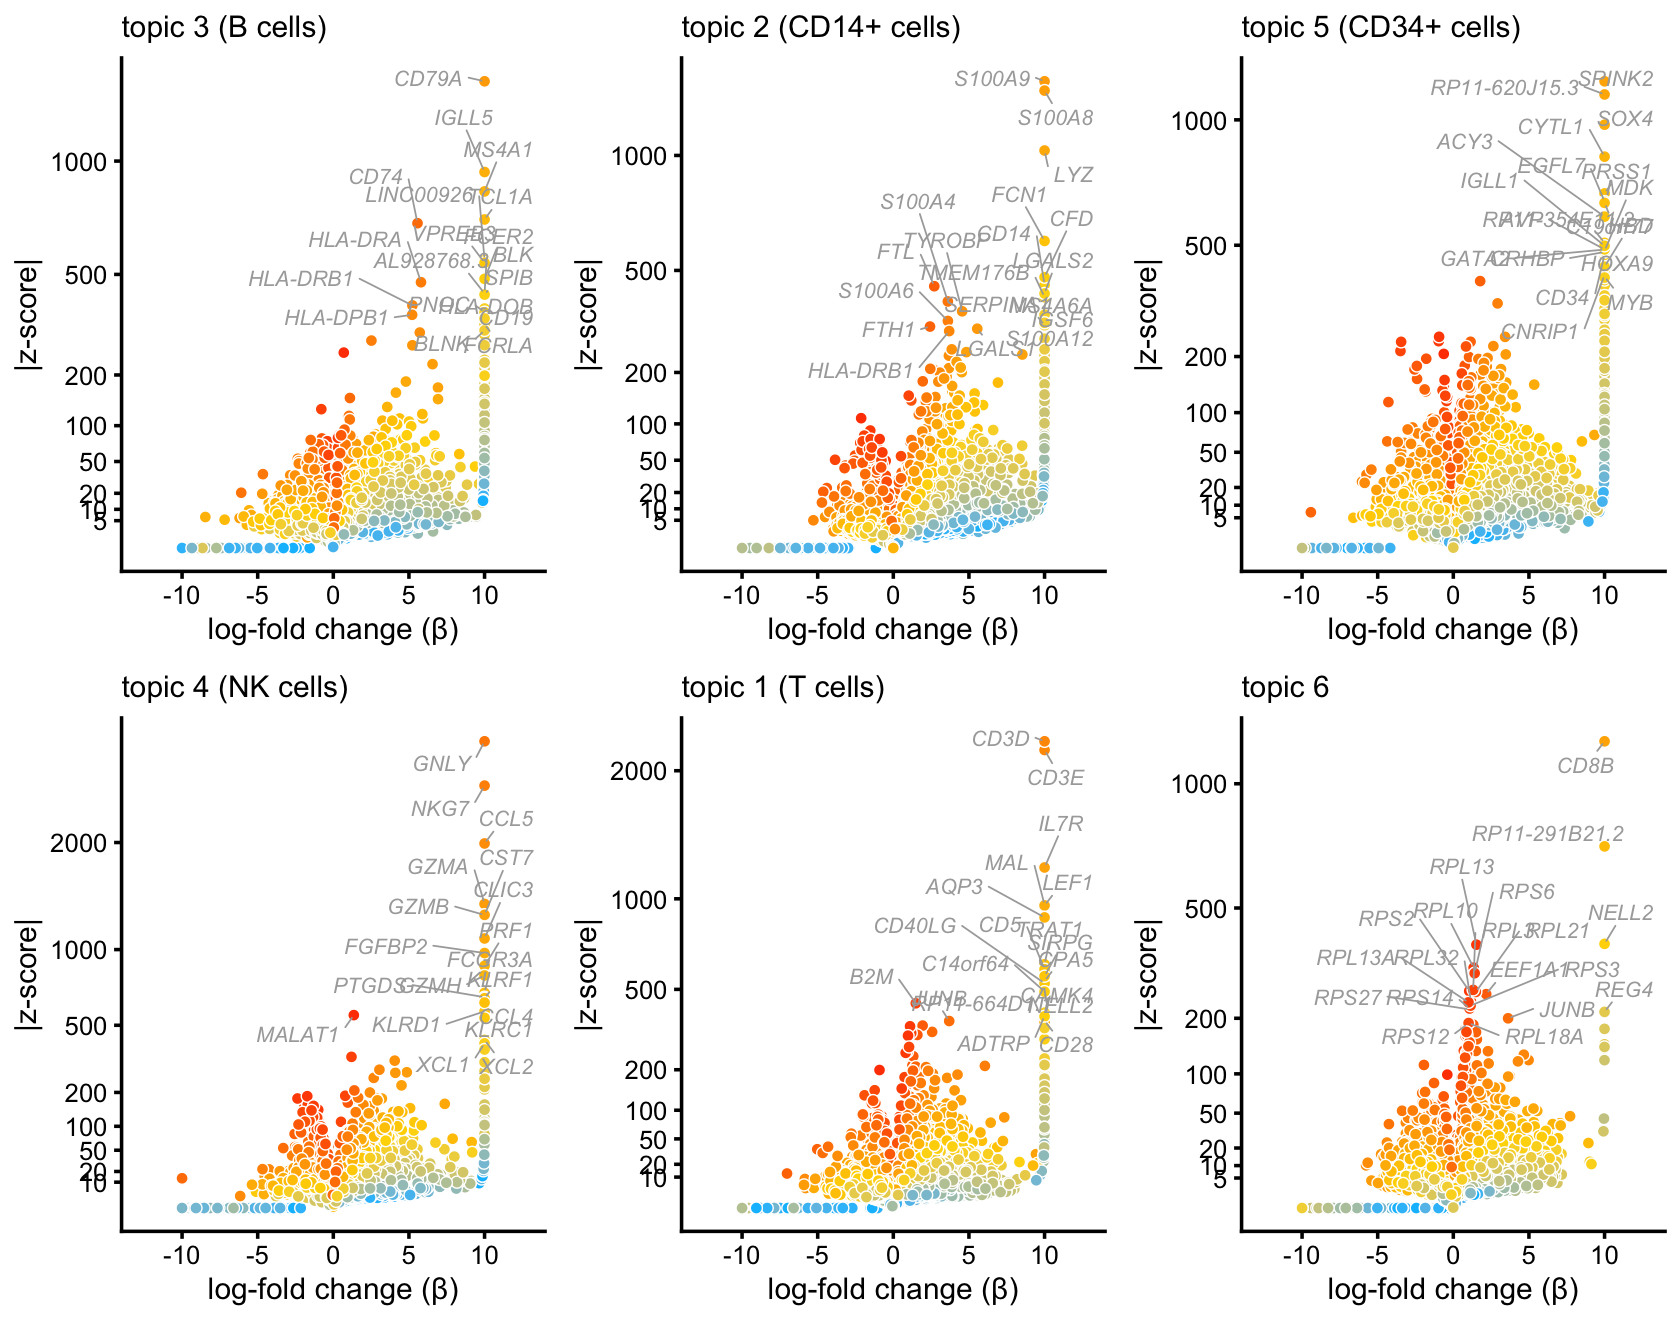
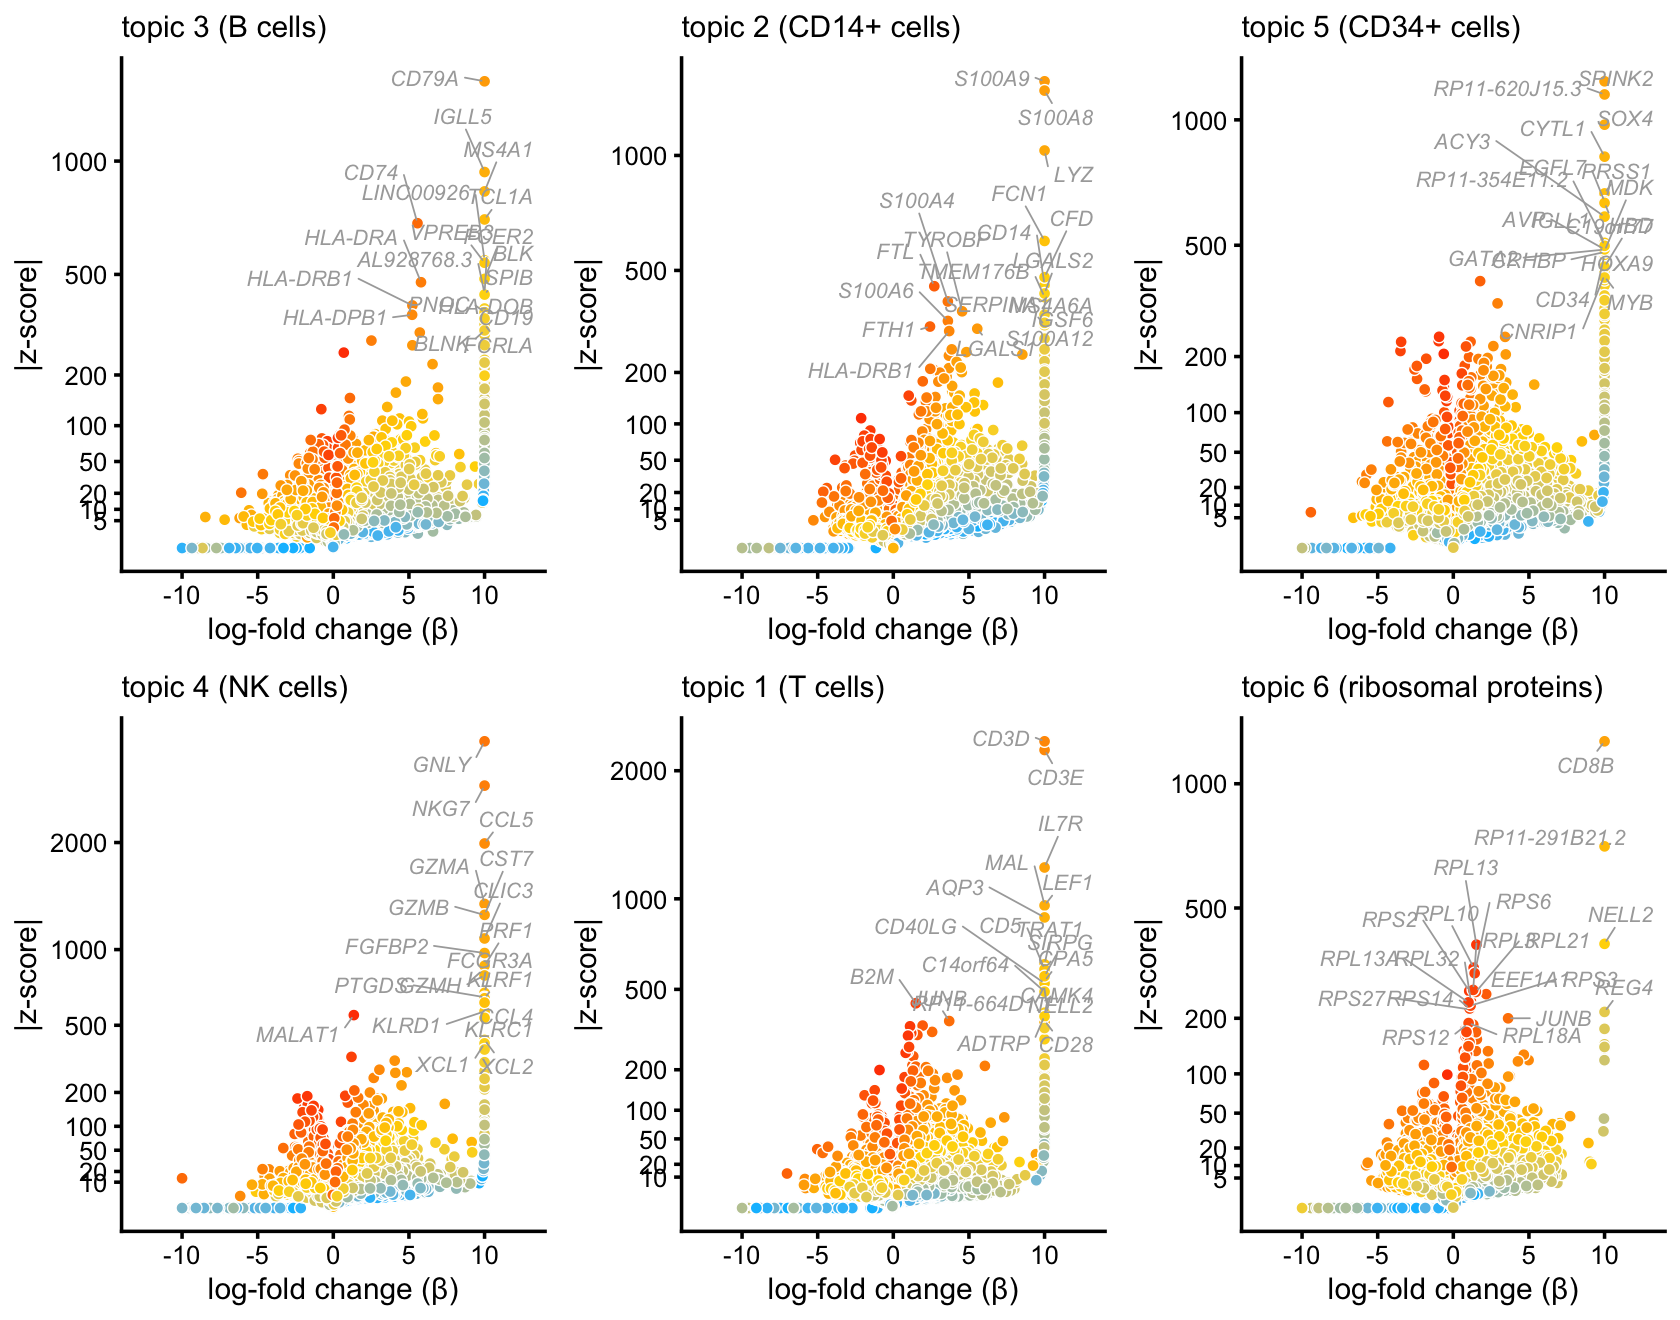
Re-built plots_purified_pbmc with interactive volcano plots.

diff --git a/docs/plots_purified_pbmc.html b/docs/plots_purified_pbmc.html
@@ -305,7 +305,7 @@ $(document).ready(function () {
 
 <p>
 <button type="button" class="btn btn-default btn-workflowr btn-workflowr-report" data-toggle="collapse" data-target="#workflowr-report">
-<span class="glyphicon glyphicon-list" aria-hidden="true"></span> workflowr <span class="glyphicon glyphicon-exclamation-sign text-danger" aria-hidden="true"></span>
+<span class="glyphicon glyphicon-list" aria-hidden="true"></span> workflowr <span class="glyphicon glyphicon-ok text-success" aria-hidden="true"></span>
 </button>
 </p>
 <div id="workflowr-report" class="collapse">
@@ -314,7 +314,7 @@ $(document).ready(function () {
 <a data-toggle="tab" href="#summary">Summary</a>
 </li>
 <li>
-<a data-toggle="tab" href="#checks"> Checks <span class="glyphicon glyphicon-exclamation-sign text-danger" aria-hidden="true"></span> </a>
+<a data-toggle="tab" href="#checks"> Checks <span class="glyphicon glyphicon-ok text-success" aria-hidden="true"></span> </a>
 </li>
 <li>
 <a data-toggle="tab" href="#versions">Past versions</a>
@@ -323,10 +323,10 @@ $(document).ready(function () {
 <div class="tab-content">
 <div id="summary" class="tab-pane fade in active">
 <p>
-<strong>Last updated:</strong> 2021-02-09
+<strong>Last updated:</strong> 2021-02-10
 </p>
 <p>
-<strong>Checks:</strong> <span class="glyphicon glyphicon-ok text-success" aria-hidden="true"></span> 6 <span class="glyphicon glyphicon-exclamation-sign text-danger" aria-hidden="true"></span> 1
+<strong>Checks:</strong> <span class="glyphicon glyphicon-ok text-success" aria-hidden="true"></span> 7 <span class="glyphicon glyphicon-exclamation-sign text-danger" aria-hidden="true"></span> 0
 </p>
 <p>
 <strong>Knit directory:</strong> <code>single-cell-topics/analysis/</code> <span class="glyphicon glyphicon-question-sign" aria-hidden="true" title="This is the local directory in which the code in this file was executed."> </span>
@@ -390,27 +390,12 @@ This reproducible <a href="http://rmarkdown.rstudio.com">R Markdown</a> analysis
 <div class="panel panel-default">
 <div class="panel-heading">
 <p class="panel-title">
-<a data-toggle="collapse" data-parent="#workflowr-checks" href="#strongCachestrongdetected"> <span class="glyphicon glyphicon-exclamation-sign text-danger" aria-hidden="true"></span> <strong>Cache:</strong> detected </a>
+<a data-toggle="collapse" data-parent="#workflowr-checks" href="#strongCachestrongnone"> <span class="glyphicon glyphicon-ok text-success" aria-hidden="true"></span> <strong>Cache:</strong> none </a>
 </p>
 </div>
-<div id="strongCachestrongdetected" class="panel-collapse collapse">
+<div id="strongCachestrongnone" class="panel-collapse collapse">
 <div class="panel-body">
-The following chunks had caches available:
-<ul>
-<li>
-diff-count-analysis-clusters
-</li>
-<li>
-diff-count-analysis-subpop
-</li>
-<li>
-diff-count-analysis-t
-</li>
-<li>
-diff-count-analysis-topics
-</li>
-</ul>
-<p>To ensure reproducibility of the results, delete the cache directory <code>plots_purified_pbmc_cache</code> and re-run the analysis. To have workflowr automatically delete the cache directory prior to building the file, set <code>delete_cache = TRUE</code> when running <code>wflow_build()</code> or <code>wflow_publish()</code>.</p>
+<p>Nice! There were no cached chunks for this analysis, so you can be confident that you successfully produced the results during this run.</p>
 </div>
 </div>
 </div>
@@ -429,16 +414,16 @@ diff-count-analysis-topics
 <div class="panel panel-default">
 <div class="panel-heading">
 <p class="panel-title">
-<a data-toggle="collapse" data-parent="#workflowr-checks" href="#strongRepositoryversionstrongahrefhttpsgithubcomstephenslabsinglecelltopicstreecf1e3d24ab24da234875e0fd66cc625605e19e2btargetblankcf1e3d2a"> <span class="glyphicon glyphicon-ok text-success" aria-hidden="true"></span> <strong>Repository version:</strong> <a href="https://github.com/stephenslab/single-cell-topics/tree/cf1e3d24ab24da234875e0fd66cc625605e19e2b" target="_blank">cf1e3d2</a> </a>
+<a data-toggle="collapse" data-parent="#workflowr-checks" href="#strongRepositoryversionstrongahrefhttpsgithubcomstephenslabsinglecelltopicstree676e0531231c96419f6244f1856d4198d8cab07dtargetblank676e053a"> <span class="glyphicon glyphicon-ok text-success" aria-hidden="true"></span> <strong>Repository version:</strong> <a href="https://github.com/stephenslab/single-cell-topics/tree/676e0531231c96419f6244f1856d4198d8cab07d" target="_blank">676e053</a> </a>
 </p>
 </div>
[2 lines of base64/hex data omitted]
 <div class="panel-body">
 <p>
 Great! You are using Git for version control. Tracking code development and connecting the code version to the results is critical for reproducibility.
 </p>
 <p>
-The results in this page were generated with repository version <a href="https://github.com/stephenslab/single-cell-topics/tree/cf1e3d24ab24da234875e0fd66cc625605e19e2b" target="_blank">cf1e3d2</a>. See the <em>Past versions</em> tab to see a history of the changes made to the R Markdown and HTML files.
+The results in this page were generated with repository version <a href="https://github.com/stephenslab/single-cell-topics/tree/676e0531231c96419f6244f1856d4198d8cab07d" target="_blank">676e053</a>. See the <em>Past versions</em> tab to see a history of the changes made to the R Markdown and HTML files.
 </p>
 <p>
 Note that you need to be careful to ensure that all relevant files for the analysis have been committed to Git prior to generating the results (you can use <code>wflow_publish</code> or <code>wflow_git_commit</code>). workflowr only checks the R Markdown file, but you know if there are other scripts or data files that it depends on. Below is the status of the Git repository when the results were generated:
@@ -461,7 +446,12 @@ Ignored files:
     Ignored:    output/pulseseq/rds/
 
 Untracked files:
-    Untracked:  analysis/plots_purified_pbmc_cache/
+    Untracked:  analysis/volcano_plot_purified_pbmc_bcells.html
+    Untracked:  analysis/volcano_plot_purified_pbmc_cd14.html
+    Untracked:  analysis/volcano_plot_purified_pbmc_cd34.html
+    Untracked:  analysis/volcano_plot_purified_pbmc_nk.html
+    Untracked:  analysis/volcano_plot_purified_pbmc_ribosomal_proteins.html
+    Untracked:  analysis/volcano_plot_purified_pbmc_tcells.html
     Untracked:  plots/
 
 </code></pre>
@@ -501,6 +491,57 @@ Message
 </tr>
 </thead>
 <tbody>
+<tr>
+<td>
+Rmd
+</td>
+<td>
+<a href="https://github.com/stephenslab/single-cell-topics/blob/676e0531231c96419f6244f1856d4198d8cab07d/analysis/plots_purified_pbmc.Rmd" target="_blank">676e053</a>
+</td>
+<td>
+Peter Carbonetto
+</td>
+<td>
+2021-02-10
+</td>
+<td>
+workflowr::wflow_publish(“plots_purified_pbmc.Rmd”, verbose = TRUE)
+</td>
+</tr>
+<tr>
+<td>
+Rmd
+</td>
+<td>
+<a href="https://github.com/stephenslab/single-cell-topics/blob/52d16f37ba1415098d61d613faa9e0e555afa585/analysis/plots_purified_pbmc.Rmd" target="_blank">52d16f3</a>
+</td>
+<td>
+Peter Carbonetto
+</td>
+<td>
+2021-02-10
+</td>
+<td>
+Created topic volcano plots for paper in plots_purified_pbmc analysis.
+</td>
+</tr>
+<tr>
+<td>
+html
+</td>
+<td>
+<a href="https://rawcdn.githack.com/stephenslab/single-cell-topics/f596d8a1fd028eab316e916d6df81cb736a48d87/docs/plots_purified_pbmc.html" target="_blank">f596d8a</a>
+</td>
+<td>
+Peter Carbonetto
+</td>
+<td>
+2021-02-09
+</td>
+<td>
+Made further refinements to the volcano plots in the
+</td>
+</tr>
 <tr>
 <td>
 Rmd
@@ -1000,6 +1041,17 @@ Date
 <tbody>
 <tr>
 <td>
+<a href="https://github.com/stephenslab/single-cell-topics/blob/f596d8a1fd028eab316e916d6df81cb736a48d87/docs/figure/plots_purified_pbmc.Rmd/volcano-plots-1-1.png" target="_blank">f596d8a</a>
+</td>
+<td>
+Peter Carbonetto
+</td>
+<td>
+2021-02-09
+</td>
+</tr>
+<tr>
+<td>
 <a href="https://github.com/stephenslab/single-cell-topics/blob/d0775d2c616d0662f968d8efff4a3c8e7944892e/docs/figure/plots_purified_pbmc.Rmd/volcano-plots-1-1.png" target="_blank">d0775d2</a>
 </td>
 <td>
@@ -1170,6 +1222,17 @@ Date
 <tbody>
 <tr>
 <td>
+<a href="https://github.com/stephenslab/single-cell-topics/blob/f596d8a1fd028eab316e916d6df81cb736a48d87/docs/figure/plots_purified_pbmc.Rmd/volcano-plots-2-1.png" target="_blank">f596d8a</a>
+</td>
+<td>
+Peter Carbonetto
+</td>
+<td>
+2021-02-09
+</td>
+</tr>
+<tr>
+<td>
 <a href="https://github.com/stephenslab/single-cell-topics/blob/d0775d2c616d0662f968d8efff4a3c8e7944892e/docs/figure/plots_purified_pbmc.Rmd/volcano-plots-2-1.png" target="_blank">d0775d2</a>
 </td>
 <td>
@@ -1298,7 +1361,7 @@ p19 &lt;- volcano_plot(diff_count_topics,&quot;k6&quot;,genes$symbol,
                     subsample_below_quantile = 0.5,
                     filter_low_counts = 5e-5) +
   guides(fill = &quot;none&quot;) +
-  ggtitle(&quot;topic 6&quot;)
+  ggtitle(&quot;topic 6 (ribosomal proteins)&quot;)
 plot_grid(p14,p15,p16,p17,p18,p19,nrow = 2,ncol = 3)</code></pre>
 <p><img src="figure/plots_purified_pbmc.Rmd/volcano-plots-3-1.png" width="840" style="display: block; margin: auto;" /></p>
 <p>
@@ -1325,6 +1388,17 @@ Date
 <tbody>
 <tr>
 <td>
+<a href="https://github.com/stephenslab/single-cell-topics/blob/f596d8a1fd028eab316e916d6df81cb736a48d87/docs/figure/plots_purified_pbmc.Rmd/volcano-plots-3-1.png" target="_blank">f596d8a</a>
+</td>
+<td>
+Peter Carbonetto
+</td>
+<td>
+2021-02-09
+</td>
+</tr>
+<tr>
+<td>
 <a href="https://github.com/stephenslab/single-cell-topics/blob/d0775d2c616d0662f968d8efff4a3c8e7944892e/docs/figure/plots_purified_pbmc.Rmd/volcano-plots-3-1.png" target="_blank">d0775d2</a>
 </td>
 <td>
@@ -1338,7 +1412,53 @@ Peter Carbonetto
 </table>
 </div>
 </div>
-<p><em>Add text here.</em></p>
+<p>The results of the differential expression analysis can also be browsed in interactive volcano plots:</p>
+<pre class="r"><code>volcano_plotly(diff_count_topics,&quot;k3&quot;,
+               &quot;volcano_plot_purified_pbmc_bcells.html&quot;,
+               genes$symbol,title = &quot;topic 3 (B cells)&quot;,
+               subsample_below_quantile = 0.5,
+               filter_low_counts = 5e-5,
+               width = 450,height = 500)
+volcano_plotly(diff_count_topics,&quot;k2&quot;,
+               &quot;volcano_plot_purified_pbmc_cd14.html&quot;,
+               genes$symbol,title = &quot;topic 2 (CD14+)&quot;,
+               subsample_below_quantile = 0.5,
+               filter_low_counts = 5e-5,
+               width = 450,height = 500)
+volcano_plotly(diff_count_topics,&quot;k5&quot;,
+               &quot;volcano_plot_purified_pbmc_cd34.html&quot;,
+               genes$symbol,title = &quot;topic 5 (CD34+)&quot;,
+               subsample_below_quantile = 0.5,
+               filter_low_counts = 5e-5,
+               width = 450,height = 500)
+volcano_plotly(diff_count_topics,&quot;k4&quot;,
+               &quot;volcano_plot_purified_pbmc_nk.html&quot;,
+               genes$symbol,title = &quot;topic 4 (NK cells)&quot;,
+               subsample_below_quantile = 0.5,
+               filter_low_counts = 5e-5,
+               width = 450,height = 500)
+volcano_plotly(diff_count_topics,&quot;k1&quot;,
+               &quot;volcano_plot_purified_pbmc_tcells.html&quot;,
+               genes$symbol,title = &quot;topic 1 (T cells)&quot;,
+               subsample_below_quantile = 0.5,
+               filter_low_counts = 5e-5,
+               width = 450,height = 500)
+volcano_plotly(diff_count_topics,&quot;k6&quot;,
+               &quot;volcano_plot_purified_pbmc_ribosomal_proteins.html&quot;,
+               genes$symbol,title = &quot;topic 6 (ribosomal proteins)&quot;,
+               subsample_below_quantile = 0.5,
+               filter_low_counts = 5e-5,
+               width = 450,height = 500)
+volcano_plotly(diff_count_clusters,&quot;CD8+&quot;,
+               &quot;volcano_plot_purified_pbmc_cd8.html&quot;,
+               genes$symbol,title = &quot;CD8+ cluster&quot;,
+               subsample_below_quantile = 0.5,
+               filter_low_counts = 5e-5,
+               width = 450,height = 500)
+volcano_plotly(diff_count_clusters,&quot;dendritic&quot;,
+               &quot;volcano_plot_purified_pbmc_dendritic.html&quot;,genes$symbol,
+               title = &quot;dendritic cells cluster&quot;)</code></pre>
+<p>The interactive volcano plots mayalso be viewed by clicking these links: <a href="volcano_plot_purified_pbmc_bcells.html">topic 3 (B cells)</a>, <a href="volcano_plot_purified_pbmc_nk.html">topic 4 (NK cells)</a>, <a href="volcano_plot_purified_pbmc_cd14.html">topic 2 (CD14+)</a>, <a href="volcano_plot_purified_pbmc_cd34.html">topic 5 (CD34+)</a>, <a href="volcano_plot_purified_pbmc_tcells.html">topics 1 (T cells)</a>, <a href="volcano_plot_purified_pbmc_ribosomal_proteins.html">topics 6 (T cells)</a>, <a href="volcano_plot_purified_pbmc_cd8.html">CD8+ cluster</a>, <a href="volcano_plot_purified_pbmc_dendritic.html">dendritic cells cluster</a></p>
 <p>List of ribosomal protein genes is from <a href="doi:10.1101/gr.214202" class="uri">doi:10.1101/gr.214202</a>.</p>
 <pre class="r"><code>rpgenes &lt;- c(&quot;RPS2&quot;,&quot;RPS3&quot;,&quot;RPS3A&quot;,&quot;RPS4X&quot;,&quot;RPS6&quot;,&quot;RPS7&quot;,&quot;RPS8&quot;,&quot;RPS9&quot;,
              &quot;RPS10&quot;,&quot;RPS11&quot;,&quot;RPS12&quot;,&quot;RPS13&quot;,&quot;RPS14&quot;,&quot;RPS15&quot;,&quot;RPS15A&quot;,
@@ -1358,37 +1478,6 @@ y &lt;- rowSums(counts[i,j])/rowSums(counts[i,])
 plot(x,y,pch = 20,xlab = &quot;topic 6 proportion&quot;,
      ylab = &quot;prop. of expression from ribosomal genes&quot;,
      main = sprintf(&quot;cor = %0.2f&quot;,cor(x,y)))</code></pre>
-<p>The results of the differential expression analysis can also be browsed in interactive volcano plots:</p>
-<pre class="r"><code>volcano_plotly(diff_count_topics,&quot;k3&quot;,&quot;volcano_plot_purified_pbmc_bcells.html&quot;,
-               genes$symbol,title = &quot;topic 3 (B cells)&quot;)
-volcano_plotly(diff_count_topics,&quot;k4&quot;,&quot;volcano_plot_purified_pbmc_nk.html&quot;,
-               genes$symbol,title = &quot;topic 4 (NK cells)&quot;)
-volcano_plotly(diff_count_topics,&quot;k2&quot;,&quot;volcano_plot_purified_pbmc_cd14.html&quot;,
-               genes$symbol,title = &quot;topic 2 (CD14+)&quot;)
-volcano_plotly(diff_count_topics,&quot;k5&quot;,&quot;volcano_plot_purified_pbmc_cd34.html&quot;,
-               genes$symbol,title = &quot;topic 5 (CD34+)&quot;)
-volcano_plotly(diff_count_topics,&quot;k1+k6&quot;,
-               &quot;volcano_plot_purified_pbmc_tcells.html&quot;,genes$symbol,
-               title = &quot;topics 1 + 6 (T cells)&quot;)
-volcano_plotly(diff_count_t,&quot;k1&quot;,&quot;volcano_plot_purified_pbmc_cd4cd8.html&quot;,
-               genes$symbol,title = &quot;topic 1 (CD4+/CD8+)&quot;)
-volcano_plotly(diff_count_clusters,&quot;CD8+&quot;,
-               &quot;volcano_plot_purified_pbmc_cd8.html&quot;,genes$symbol,
-               title = &quot;CD8+ cluster&quot;)
-volcano_plotly(diff_count_clusters,&quot;dendritic&quot;,
-               &quot;volcano_plot_purified_pbmc_dendritic.html&quot;,genes$symbol,
-               title = &quot;dendritic cells cluster&quot;)</code></pre>
-<p>The interactive volcano plots can also be viewed by clicking on these links:</p>
-<ul>
-<li><p><a href="volcano_plot_purified_pbmc_bcells.html">topic 3 (B cells)</a></p></li>
-<li><p><a href="volcano_plot_purified_pbmc_nk.html">topic 4 (NK cells)</a></p></li>
-<li><p><a href="volcano_plot_purified_pbmc_cd14.html">topic 2 (CD14+)</a></p></li>
-<li><p><a href="volcano_plot_purified_pbmc_cd34.html">topic 5 (CD34+)</a></p></li>
-<li><p><a href="volcano_plot_purified_pbmc_tcells.html">topics 1 and 6 (T cells)</a></p></li>
-<li><p><a href="volcano_plot_purified_pbmc_cd4cd8.html">topic 1 (CD4+/CD8+ lineage differentiation)</a></p></li>
-<li><p><a href="volcano_plot_purified_pbmc_cd8.html">CD8+ cluster</a></p></li>
-<li><p><a href="volcano_plot_purified_pbmc_dendritic.html">dendritic cells cluster</a></p></li>
-</ul>
 <pre class="r"><code>p10 &lt;- lfc_scatterplot(diff_count_facs,diff_count_topics,&quot;CD19+ B&quot;,&quot;k3&quot;,
                        genes$symbol,label_above_quantile = 0.998,
                        xlab = &quot;B cells FACS subpopulation&quot;,ylab = &quot;topic 3&quot;)
